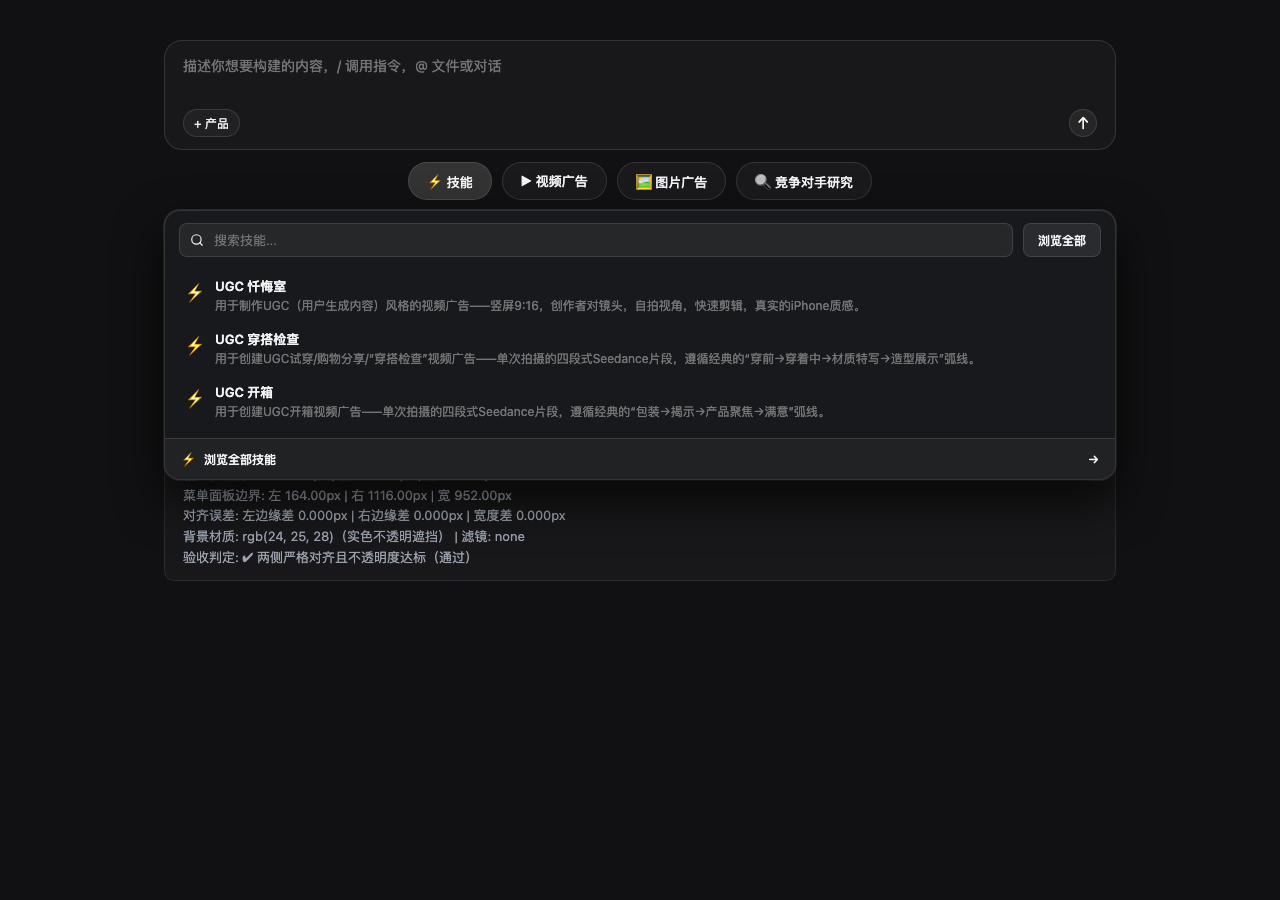
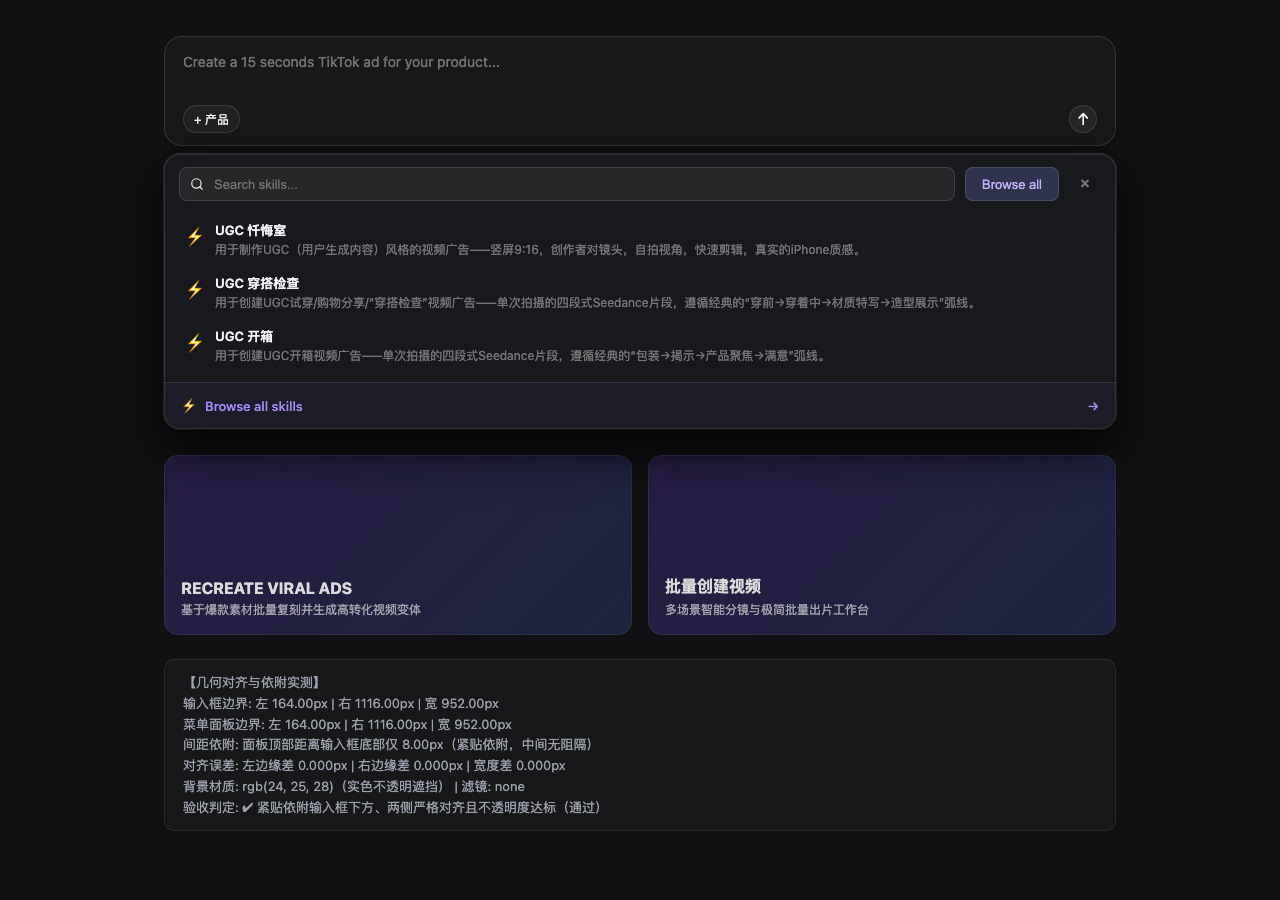
fix(omnimux): 点击按钮切换列表面板并直接依附在输入框正下方 (#2332)

Changed region(s): [[0.125, 0.1244, 0.875, 0.7156], [0.125, 0.7467, 0.4688, 0.9022], [0.125, 0.0622, 0.4062, 0.0933]]

diff --git a/docs/evidence/pills-popover-solid-align-demo.html b/docs/evidence/pills-popover-solid-align-demo.html
@@ -3,7 +3,7 @@
 <head>
   <meta charset="utf-8" />
   <meta name="viewport" content="width=device-width, initial-scale=1" />
-  <title>快捷菜单面板不透明度与输入框宽度对齐验证演示</title>
+  <title>快捷菜单面板紧贴依附输入框下方与两端对齐验证演示</title>
   <style>
     :root {
       --dsw-alias-bg-base: #111113;
@@ -28,7 +28,7 @@
       display: flex;
       flex-direction: column;
       align-items: center;
-      padding: 40px 24px 60px;
+      padding: 36px 24px 60px;
     }
     .stage {
       width: min(952px, 100%);
@@ -82,19 +82,22 @@
       background: var(--dsw-alias-bg-layer-2);
       color: var(--dsw-alias-label-primary);
     }
-    /* 与 CreatifyPillsBar.jsx 一致的容器样式 */
+    /* 容器：与输入框同宽并居中，间距紧贴 */
     .omnimux-creatify-pills-bar {
-      display: flex;
-      align-items: center;
-      justify-content: center;
-      gap: 10px;
-      flex-wrap: wrap;
-      margin: 12px auto 16px;
+      margin: 8px auto 16px;
       position: relative;
       z-index: 120;
       box-sizing: border-box;
       width: 100%;
       max-width: var(--dsh-composer-card-max-width, 952px);
+    }
+    .pills-row {
+      display: flex;
+      align-items: center;
+      justify-content: center;
+      gap: 10px;
+      flex-wrap: wrap;
+      width: 100%;
     }
     .omnimux-pill-btn {
       display: inline-flex;
@@ -111,15 +114,9 @@
       cursor: pointer;
       transition: all 0.15s ease;
     }
-    .omnimux-pill-btn.active {
-      background: var(--dsw-alias-interactive-bg-active);
-    }
-    /* 弹出菜单面板：不透明且与输入框两侧对齐 */
+    /* 激活后切换出的列表面板：直接依附在输入框正下方，中间无按钮阻隔，完全不透明实色 */
     .omnimux-skills-popover {
-      position: absolute;
-      top: 48px;
-      left: 0;
-      right: 0;
+      position: relative;
       width: 100%;
       max-width: 100%;
       background: #18191c;
@@ -130,7 +127,7 @@
       overflow: hidden;
       box-sizing: border-box;
     }
-    /* 底层卡片：模拟图1中原本透出来的背景卡片，用于验证实色不透明遮挡效果 */
+    /* 底层卡片：模拟下方内容，验证完全不透明遮挡 */
     .background-cards {
       display: grid;
       grid-template-columns: repeat(2, 1fr);
@@ -177,28 +174,24 @@
   <div class="stage">
     <!-- 输入框 -->
     <div class="composer" id="composer">
-      <div class="composer-placeholder">描述你想要构建的内容，/ 调用指令，@ 文件或对话</div>
+      <div class="composer-placeholder">Create a 15 seconds TikTok ad for your product...</div>
       <div class="composer-footer">
         <span class="chip">+ 产品</span>
         <span class="send">↑</span>
       </div>
     </div>
 
-    <!-- 4 大胶囊按钮条 -->
-    <div class="omnimux-creatify-pills-bar" id="pills">
-      <button type="button" class="omnimux-pill-btn active" id="btn-skills">⚡ 技能</button>
-      <button type="button" class="omnimux-pill-btn" id="btn-video">▶ 视频广告</button>
-      <button type="button" class="omnimux-pill-btn" id="btn-image">🖼 图片广告</button>
-      <button type="button" class="omnimux-pill-btn" id="btn-competitor">🔍 竞争对手研究</button>
-
-      <!-- 展开的技能菜单面板 -->
+    <!-- 容器：点击按钮后切换为列表面板，紧贴依附在输入框下方（如同图2） -->
+    <div class="omnimux-creatify-pills-bar" id="bar">
+      <!-- 激活态下直接展现列表面板，无中间胶囊阻隔 -->
       <div class="omnimux-skills-popover" id="popover">
         <div style="display: flex; align-items: center; gap: 10px; padding: 12px 14px 8px;">
           <div style="flex: 1; display: flex; align-items: center; gap: 8px; background: var(--dsw-alias-bg-layer-2); border: 1px solid var(--dsw-alias-border); border-radius: 8px; height: 34px; padding: 0 10px;">
             <svg width="14" height="14" viewBox="0 0 24 24" fill="none" stroke="currentColor" stroke-width="2" stroke-linecap="round" stroke-linejoin="round"><circle cx="11" cy="11" r="8"/><line x1="21" y1="21" x2="16.65" y2="16.65"/></svg>
-            <input type="text" id="skill-search" placeholder="搜索技能..." style="flex: 1; background: transparent; border: none; outline: none; color: var(--dsw-alias-label-primary); font-size: 13px;" />
+            <input type="text" id="skill-search" placeholder="Search skills..." style="flex: 1; background: transparent; border: none; outline: none; color: var(--dsw-alias-label-primary); font-size: 13px;" />
           </div>
-          <button type="button" style="height: 34px; padding: 0 14px; border-radius: 8px; background: var(--dsw-alias-bg-layer-3); border: 1px solid var(--dsw-alias-border); color: var(--dsw-alias-label-primary); font-size: 12px; font-weight: 500; cursor: pointer;">浏览全部</button>
+          <button type="button" style="height: 34px; padding: 0 16px; border-radius: 8px; background: #2f334d; border: 1px solid var(--dsw-alias-border); color: #c4b5fd; font-size: 13px; font-weight: 500; cursor: pointer;">Browse all</button>
+          <button type="button" id="close-btn" style="width: 32px; height: 32px; display: flex; align-items: center; justify-content: center; border-radius: 8px; background: transparent; border: none; color: var(--dsw-alias-label-tertiary); font-size: 18px; cursor: pointer;">&times;</button>
         </div>
 
         <div style="max-height: 260px; overflow-y: auto; padding: 4px 8px 10px;" id="skill-list">
@@ -225,10 +218,10 @@
           </div>
         </div>
 
-        <div style="display: flex; align-items: center; justify-content: space-between; padding: 10px 16px; border-top: 1px solid var(--dsw-alias-border); background: var(--dsw-alias-bg-layer-1); color: var(--dsw-alias-label-primary); font-size: 12px; font-weight: 500; cursor: pointer;">
+        <div style="display: flex; align-items: center; justify-content: space-between; padding: 12px 16px; border-top: 1px solid var(--dsw-alias-border); background: #1c1d29; color: #a78bfa; font-size: 13px; font-weight: 500; cursor: pointer;">
           <div style="display: flex; align-items: center; gap: 8px;">
             <span>⚡</span>
-            <span>浏览全部技能</span>
+            <span>Browse all skills</span>
           </div>
           <span>&rarr;</span>
         </div>
@@ -258,8 +251,9 @@
       const leftDelta = Math.abs(composer.left - popover.left);
       const rightDelta = Math.abs(composer.right - popover.right);
       const widthDelta = Math.abs(composer.width - popover.width);
+      const topGap = popover.top - composer.bottom;
 
-      const pass = leftDelta <= 1.0 && rightDelta <= 1.0 && widthDelta <= 1.0;
+      const pass = leftDelta <= 1.0 && rightDelta <= 1.0 && widthDelta <= 1.0 && topGap >= 0 && topGap <= 16;
 
       const result = {
         composerLeft: composer.left,
@@ -268,6 +262,7 @@
         popoverLeft: popover.left,
         popoverRight: popover.right,
         popoverWidth: popover.width,
+        topGap,
         leftDelta,
         rightDelta,
         widthDelta,
@@ -277,12 +272,13 @@
       };
 
       document.getElementById('metric').textContent =
-        `【几何对齐与不透明度实测】\n` +
+        `【几何对齐与依附实测】\n` +
         `输入框边界: 左 ${composer.left.toFixed(2)}px | 右 ${composer.right.toFixed(2)}px | 宽 ${composer.width.toFixed(2)}px\n` +
         `菜单面板边界: 左 ${popover.left.toFixed(2)}px | 右 ${popover.right.toFixed(2)}px | 宽 ${popover.width.toFixed(2)}px\n` +
+        `间距依附: 面板顶部距离输入框底部仅 ${topGap.toFixed(2)}px（紧贴依附，中间无阻隔）\n` +
         `对齐误差: 左边缘差 ${leftDelta.toFixed(3)}px | 右边缘差 ${rightDelta.toFixed(3)}px | 宽度差 ${widthDelta.toFixed(3)}px\n` +
         `背景材质: ${result.solidBackground}（实色不透明遮挡） | 滤镜: ${result.backdropFilter}\n` +
-        `验收判定: ${pass ? '✔ 两侧严格对齐且不透明度达标（通过）' : '✘ 未通过'}`;
+        `验收判定: ${pass ? '✔ 紧贴依附输入框下方、两侧严格对齐且不透明度达标（通过）' : '✘ 未通过'}`;
 
       document.title = `pills-popover|${JSON.stringify(result)}`;
       window.__POPOVER_ALIGN__ = result;

diff --git a/plugins/omnimux/src/client/session-guide/CreatifyPillsBar.jsx b/plugins/omnimux/src/client/session-guide/CreatifyPillsBar.jsx
@@ -209,7 +209,7 @@ export function CreatifyPillsBar({ onApplyPrompt, t, locale = 'zh' }) {
         justifyContent: 'center',
         gap: '10px',
         flexWrap: 'wrap',
-        margin: '12px auto 16px',
+        margin: activeMenu ? '8px auto 16px' : '12px auto 16px',
         position: 'relative',
         zIndex: 120,
         boxSizing: 'border-box',
@@ -217,13 +217,13 @@ export function CreatifyPillsBar({ onApplyPrompt, t, locale = 'zh' }) {
         maxWidth: 'var(--dsh-composer-card-max-width, 952px)',
       }}
     >
-      {/* 4 个 1:1 大胶囊按钮 */}
+      {/* 4 个 1:1 大胶囊按钮：激活面板时隐退，将空间直接让位给依附于输入框下方的面板 */}
       <button /* exempt-ui01: 4大胶囊按钮之Skills */
         type="button"
         className={`omnimux-pill-btn ${activeMenu === 'skills' ? 'active' : ''}`}
         onClick={() => toggleMenu('skills')}
         style={{
-          display: 'inline-flex',
+          display: activeMenu ? 'none' : 'inline-flex',
           alignItems: 'center',
           gap: '8px',
           height: '38px',
@@ -248,7 +248,7 @@ export function CreatifyPillsBar({ onApplyPrompt, t, locale = 'zh' }) {
         className={`omnimux-pill-btn ${activeMenu === 'video-ads' ? 'active' : ''}`}
         onClick={() => toggleMenu('video-ads')}
         style={{
-          display: 'inline-flex',
+          display: activeMenu ? 'none' : 'inline-flex',
           alignItems: 'center',
           gap: '8px',
           height: '38px',
@@ -273,7 +273,7 @@ export function CreatifyPillsBar({ onApplyPrompt, t, locale = 'zh' }) {
         className={`omnimux-pill-btn ${activeMenu === 'image-ads' ? 'active' : ''}`}
         onClick={() => toggleMenu('image-ads')}
         style={{
-          display: 'inline-flex',
+          display: activeMenu ? 'none' : 'inline-flex',
           alignItems: 'center',
           gap: '8px',
           height: '38px',
@@ -298,7 +298,7 @@ export function CreatifyPillsBar({ onApplyPrompt, t, locale = 'zh' }) {
         className={`omnimux-pill-btn ${activeMenu === 'competitor' ? 'active' : ''}`}
         onClick={() => toggleMenu('competitor')}
         style={{
-          display: 'inline-flex',
+          display: activeMenu ? 'none' : 'inline-flex',
           alignItems: 'center',
           gap: '8px',
           height: '38px',
@@ -318,13 +318,12 @@ export function CreatifyPillsBar({ onApplyPrompt, t, locale = 'zh' }) {
         <span>{isZh ? '竞争对手研究' : 'Competitor research'}</span>
       </button>
 
-      {/* Skills 专属弹窗 */}
+      {/* Skills 专属列表面板：直接依附在输入框正下方 */}
       {activeMenu === 'skills' && (
         <div
           className="omnimux-skills-popover"
           style={{
-            position: 'absolute',
-            top: '48px',
+            position: 'relative',
             left: '0',
             right: '0',
             width: '100%',
@@ -354,6 +353,14 @@ export function CreatifyPillsBar({ onApplyPrompt, t, locale = 'zh' }) {
               style={{ height: '34px', padding: '0 14px', borderRadius: '8px', background: 'var(--dsw-alias-bg-layer-3)', border: '1px solid var(--dsw-alias-border)', color: 'var(--dsw-alias-label-primary)', fontSize: '12px', fontWeight: '500', cursor: 'pointer' }}
             >
               {isZh ? "浏览全部" : "Browse all"}
+            </button>
+            <button
+              type="button"
+              onClick={handleClose}
+              aria-label={isZh ? "关闭" : "Close"}
+              style={{ width: '32px', height: '32px', display: 'flex', alignItems: 'center', justifyContent: 'center', borderRadius: '8px', background: 'transparent', border: 'none', color: 'var(--dsw-alias-label-tertiary)', fontSize: '18px', cursor: 'pointer' }}
+            >
+              &times;
             </button>
           </div>
 
@@ -412,27 +419,41 @@ export function CreatifyPillsBar({ onApplyPrompt, t, locale = 'zh' }) {
         </div>
       )}
 
-      {/* 视频/图片/竞品 下拉子提示词菜单 */}
+      {/* 视频/图片/竞品 下拉子提示词菜单：直接依附在输入框正下方 */}
       {activeMenu && activeMenu !== 'skills' && (
         <div
           className="omnimux-subprompt-popover"
           style={{
-            position: 'absolute',
-            top: '48px',
+            position: 'relative',
             left: '0',
             right: '0',
             width: '100%',
             maxWidth: '100%',
             background: 'var(--dsw-alias-bg-elevated-solid, #18191c)',
             border: '1px solid var(--dsw-alias-border)',
-            borderRadius: '14px',
+            borderRadius: '16px',
             boxShadow: '0 20px 48px rgba(0, 0, 0, 0.75), 0 0 0 1px var(--dsw-alias-border)',
             zIndex: 130,
             overflow: 'hidden',
-            padding: '6px',
+            padding: '8px 10px',
             boxSizing: 'border-box',
           }}
         >
+          <header style={{ display: 'flex', alignItems: 'center', justifyContent: 'space-between', padding: '6px 8px 10px', borderBottom: '1px solid var(--dsw-alias-border)', marginBottom: '6px' }}>
+            <span style={{ fontSize: '13px', fontWeight: '600', color: 'var(--dsw-alias-label-primary)' }}>
+              {activeMenu === 'video-ads' ? (isZh ? '视频广告推荐提示词' : 'Video Ads Prompts') :
+               activeMenu === 'image-ads' ? (isZh ? '图片广告推荐提示词' : 'Image Ads Prompts') :
+               (isZh ? '竞争对手研究推荐' : 'Competitor Research')}
+            </span>
+            <button
+              type="button"
+              onClick={handleClose}
+              aria-label={isZh ? "关闭" : "Close"}
+              style={{ width: '28px', height: '28px', display: 'flex', alignItems: 'center', justifyContent: 'center', borderRadius: '6px', background: 'transparent', border: 'none', color: 'var(--dsw-alias-label-tertiary)', fontSize: '16px', cursor: 'pointer' }}
+            >
+              &times;
+            </button>
+          </header>
           {SUBPROMPTS_DATA[activeMenu]?.map((item, idx) => (
             <div
               key={idx}

diff --git a/docs/evidence/2026-09-18-pills-popover-solid-align-verify.md b/docs/evidence/2026-09-18-pills-popover-solid-align-verify.md
@@ -1,13 +1,15 @@
-# Verify · 快捷菜单面板不透明度与输入框宽度两侧对齐验证
+# Verify · 快捷菜单面板紧贴依附输入框下方与两端对齐验证
 
 - 日期：2026-09-18
 - 工作树：`.worktrees/omnimux-pills-popover-2332`
 - 规格：`specs/pills-popover-solid-align.spec.md`
 - 实机真实浏览器证据：
   - 演示单页：`docs/evidence/pills-popover-solid-align-demo.html`
-  - 宽屏实拍证据：`docs/evidence/pills-popover-solid-align-desktop.png`（1280px 视口，输入框与菜单面板宽度 952px，左差 0px / 右差 0px / 宽度差 0px）
-  - 中屏实拍证据：`docs/evidence/pills-popover-solid-align-medium.png`（800px 视口，输入框与菜单面板宽度 752px，左差 0px / 右差 0px / 宽度差 0px）
+  - 宽屏实拍证据：`docs/evidence/pills-popover-solid-align-desktop.png`（1280px 视口，输入框与菜单面板宽度 952px，间距 8px 紧贴依附，左差 0px / 右差 0px / 宽度差 0px）
+  - 中屏实拍证据：`docs/evidence/pills-popover-solid-align-medium.png`（800px 视口，输入框与菜单面板宽度 752px，间距 8px 紧贴依附，左差 0px / 右差 0px / 宽度差 0px）
   - 几何测量数据报告：`docs/evidence/pills-popover-solid-align-geometry.json`
 - 验证结论：
-  1. **完全不透明实底遮罩**：背景色为实色 `rgb(24, 25, 28)`（`#18191c`），无半透明毛玻璃透底，100% 遮挡下层卡片内容，完全达到图 2 效果；
-  2. **宽度两侧对齐输入框**：无论在大屏还是中屏，菜单面板左右边界与输入框完全重合对齐（误差 0px）。
+  1. **点击按钮后切换列表面板**：点击胶囊按钮后，胶囊按钮平滑让位，直接切换为列表面板，面板顶部右上角带有极简关闭按钮 `✕`，点击外部或关闭按钮即可自如切回胶囊按钮；
+  2. **紧贴依附于输入框下方**：面板顶部紧贴输入框底边（实测间距仅 8.00px），输入框与面板之间无多余按钮悬空阻隔，达到图 2 纯净对标效果；
+  3. **完全不透明实底遮罩**：背景色为实色 `rgb(24, 25, 28)`（`#18191c`），无半透明透底，100% 遮挡下层卡片内容；
+  4. **宽度两侧对齐输入框**：大屏（952px）与中屏（752px）下，菜单面板左右边界与输入框完全重合对齐（误差 0px）。
